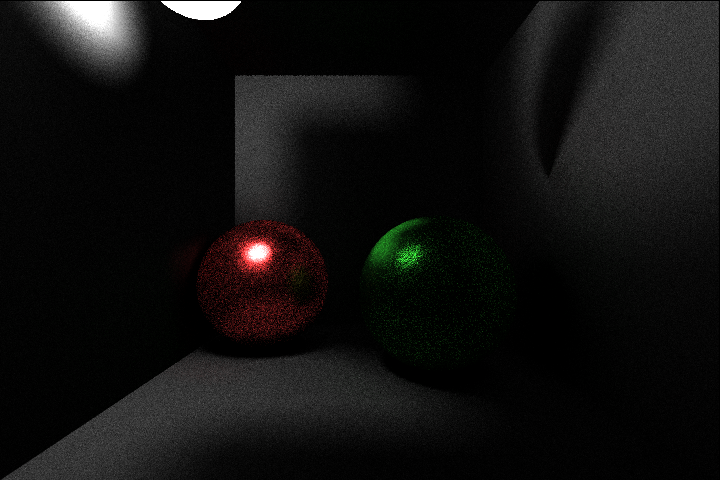
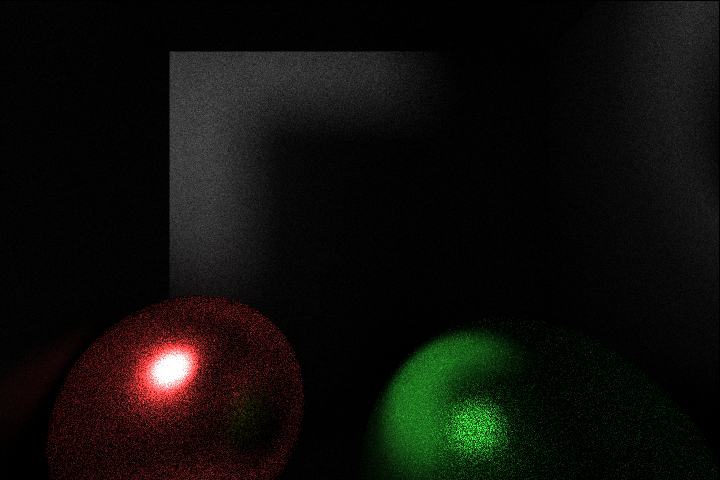
Debugged Camera, Norm3 and made new debug scene.

diff --git a/Raytracer/src/Scene.cpp b/Raytracer/src/Scene.cpp
@@ -17,13 +17,14 @@ std::optional<IntersectionTrace> Scene::find_nearest(const Ray& r) const noexcep
 
 Scene Scene::basic_scene()
 {
+	constexpr double greyval = 0.6;
 	return Scene({
-	Sphere(Vec3(1e5,		0.5,	0.5),		1e5, Material::grey_diffuse()),		// left wall
-	Sphere(Vec3(-1e5+1.0,	0.5,	0.5),		1e5, Material::grey_diffuse()),		// right wall
-	Sphere(Vec3(0.5,		-1e5+1,	0.5),		1e5, Material::grey_diffuse()),		// ceiling
-	Sphere(Vec3(0.5,		1e5,	0.5),		1e5, Material::grey_diffuse()),		// floor
-	Sphere(Vec3(0.5,		0.5,	-1e5+1),	1e5, Material::grey_diffuse()),		// backwall
-	Sphere(Vec3(0.5,		0.5,	1e5),		1e5, Material::grey_diffuse()),		// frontwall
+	Sphere(Vec3(1e5,		0.5,	0.5),		1e5, Material::grey_diffuse(greyval)),		// left wall
+	Sphere(Vec3(-1e5+1.0,	0.5,	0.5),		1e5, Material::grey_diffuse(greyval)),		// right wall
+	Sphere(Vec3(0.5,		-1e5+1,	0.5),		1e5, Material::grey_diffuse(greyval)),		// ceiling
+	Sphere(Vec3(0.5,		1e5,	0.5),		1e5, Material::grey_diffuse(greyval)),		// floor
+	Sphere(Vec3(0.5,		0.5,	-1e5+1),	1e5, Material::grey_diffuse(greyval)),		// backwall
+	Sphere(Vec3(0.5,		0.5,	1e5),		1e5, Material::grey_diffuse(greyval)),		// frontwall
 	Sphere(Vec3(0.2,		0.85,	0.2),		0.1, Material::white_light(20.0)),	// lightsource
 	Sphere(Vec3(0.7,		0.2,	0.5),		0.2, Material::green_diffuse()),	// green sphere
 	Sphere(Vec3(0.2,		0.2,	0.7),		0.2, Material::red_shiny())			// shine red sphere
@@ -32,11 +33,23 @@ Scene Scene::basic_scene()
 
 Scene Scene::hull_sphere()
 {
+	constexpr double greyval = 0.6;
 	return Scene({
-	Sphere(Vec3(0.5,		0.5,	0.5),		2.0, Material::grey_diffuse()),		// wall
+	Sphere(Vec3(0.5,		0.5,	0.5),		2.0, Material::grey_diffuse(greyval)),		// wall
 	Sphere(Vec3(0.1,		0.85,	-0.2),		0.1, Material::white_light(100.0)),	// lightsource
 	Sphere(Vec3(0.7,		0.2,	0.5),		0.2, Material::green_diffuse()),	// green sphere
 	Sphere(Vec3(0.2,		0.2,	0.7),		0.2, Material::red_shiny()),		// shine red sphere
 	Sphere(Vec3(0.5,		0.5,	0.8),		0.2, Material::mirror())			// mirror sphere
+		});
+}
+
+Scene Scene::debug_scene()
+{
+	return Scene({
+		Sphere(Vec3(0.5,0.5,0.5),	0.1,	Material::white_light(20.0)),		// lightsource in the middle of scene
+		Sphere(Vec3(0.2,0.5,0.5),	0.1,	Material::grey_diffuse(0.5)),			// gray sphere left
+		Sphere(Vec3(0.8,0.5,0.5),	0.1,	Material::grey_diffuse(0.6)),			// gray sphere right
+		Sphere(Vec3(0.5,0.2,0.5),	0.1,	Material::grey_diffuse(0.7)),			// gray sphere bottom
+		Sphere(Vec3(0.5,0.8,0.5),	0.1,	Material::grey_diffuse(0.8))			// gray sphere top
 		});
 }

diff --git a/Raytracer/src/Renderer.cpp b/Raytracer/src/Renderer.cpp
@@ -65,19 +65,20 @@ Color Renderer::radiance(const Ray& r, std::mt19937& rnd, unsigned int depth) {
 }
 
 auto Renderer::generatePixelJob(std::size_t x, std::size_t y) {
-	const auto x_rezi = 1. / maxx_;
-	const auto y_rezi = 1. / maxy_;
+	/*const auto x_rezi = 1. / renderParams_.sizeX;
+	const auto y_rezi = 1. / renderParams_.sizeY;*/
 	std::random_device r_device;
-	const unsigned int seed = r_device();
-	auto rnd = std::mt19937(seed + y * maxx_ + x);
-	const Norm3 dir = cam_.getRayDirection(x, y, rnd);
-	const auto uni = std::uniform_real_distribution(0.0, 1.0);
-	return [this, x_rezi, y_rezi, uni, rnd, dir, x, y]
-	() mutable {
+	const unsigned int seed = r_device() + y * renderParams_.sizeX + x;
+	
+	/*const Norm3 dir = cam_.getRayDirection(x, y, rnd);
+	const auto uni = std::uniform_real_distribution(0.0, 1.0);*/
+	return [&,seed,x,y](){
+		auto rnd = std::mt19937(seed + y * renderParams_.sizeX + x);
 		Color c{};
 		Ray r{};
 		for (unsigned int s = 0; s < renderParams_.samplesPerPixel; ++s) {
-			r = Ray({ (x + uni(rnd)) * normalizer_,(y + uni(rnd)) * normalizer_,0.05 }, dir);
+			//r = Ray({ 0.5,0.5,0.05 }, cam_.getRayDirection(x, y, rnd));
+			r = cam_.getRay(x, y, rnd);
 			c += radiance(r, rnd, 0) / renderParams_.samplesPerPixel;
 		}
 		c = clamp(c, 0.0, 1.0);
@@ -91,9 +92,9 @@ std::size_t Renderer::percentRendered() {
 std::vector<Color> Renderer::render() {
 
 	const auto renderSingleThread = [&]() {
-		for (std::size_t y = 0; y < maxy_; ++y) {
-			for (std::size_t x = 0; x < maxx_; ++x) {
-				pixels_[y * maxx_ + x] = generatePixelJob(x, y)();
+		for (std::size_t y = 0; y < renderParams_.sizeY; ++y) {
+			for (std::size_t x = 0; x < renderParams_.sizeX; ++x) {
+				pixels_[y * renderParams_.sizeX + x] = generatePixelJob(x, y)();
 			}
 		}
 	};
@@ -101,9 +102,9 @@ std::vector<Color> Renderer::render() {
 	const auto renderMultiThread = [&]() {
 		std::vector<std::future<Color>> results(pixels_.size());
 
-		for (std::size_t y = 0; y < maxy_; ++y) {
-			for (std::size_t x = 0; x < maxx_; ++x) {
-				results[y * maxx_ + x] = std::async(std::launch::async, generatePixelJob(x, y));
+		for (std::size_t y = 0; y < renderParams_.sizeY; ++y) {
+			for (std::size_t x = 0; x < renderParams_.sizeX; ++x) {
+				results[y * renderParams_.sizeX + x] = std::async(std::launch::async, generatePixelJob(x, y));
 			}
 		}
 		auto pct = percentRendered();

diff --git a/Raytracer/src/Camera.h b/Raytracer/src/Camera.h
@@ -4,6 +4,7 @@
 #include "Ray.h"
 #include "Constants.h"
 #include <cmath>
+#include <array>
 #include <random>
 
 // Basic Camera for the moment at the middle of the screen at X/2, Y/2
@@ -14,9 +15,11 @@ class Camera {
 	unsigned int height_;
 	double FOV_; // in radians
 	double CameraPlaneDist_;
+	Vec3 position_;
+	std::array<Norm3,3> basis_;
 
 	template<typename Rnd_dev>
-	[[nodiscard]] std::pair<double, double> normalizeCanvas(unsigned int pixX, unsigned int pixY, Rnd_dev rnd) {
+	[[nodiscard]] std::pair<double, double> normalizeCanvas(unsigned int pixX, unsigned int pixY, Rnd_dev& rnd) const {
 		const std::uniform_real_distribution uni;
 		const double x = (pixX + uni(rnd)) / width_;
 		const double y = (pixY + uni(rnd)) / height_;
@@ -24,13 +27,13 @@ class Camera {
 	}
 
 public:
-	Camera(unsigned int width, unsigned int height, double FOV) noexcept // FOV input in degrees
-		: aspectRatio_(static_cast<double>(width)/height), width_(width), height_(height), FOV_(FOV * constants::pi / 180.0) {
-		CameraPlaneDist_ = aspectRatio_ / tan(FOV_ / 2);
-	}
+	Camera(unsigned int width, unsigned int height, Vec3 position, Vec3 motive, double FOV) noexcept // FOV input in degrees
+		: aspectRatio_(static_cast<double>(width) / height), width_(width), height_(height), 
+		CameraPlaneDist_(aspectRatio_ / tan(FOV_ / 2)), position_(position), basis_(Norm3::orthogonalFromZY((motive - position).norm(),Norm3::yAxis())),
+		FOV_(FOV* constants::pi / 180.0) {}
 
 	template<typename RndDev>
-	[[nodiscard]] Norm3 getRayDirection(unsigned int X, unsigned int Y, RndDev rnd) {
+	[[nodiscard]] Norm3 getRayDirection(unsigned int X, unsigned int Y, RndDev& rnd) const {
 		const auto xy = normalizeCanvas<RndDev>(X, Y, rnd);
 		const auto x = xy.first;
 		const auto y = xy.second;
@@ -39,5 +42,15 @@ public:
 		const auto rz = CameraPlaneDist_;
 		return Vec3(rx, ry, rz).norm();
 	}
-	
+	template<typename RndDev>
+	[[nodiscard]] Ray getRay(unsigned int X, unsigned int Y, RndDev& rnd) const {
+		const auto xy = normalizeCanvas(X, Y, rnd);
+		const double x = xy.first;
+		const double y = xy.second;
+		const auto rx = x * aspectRatio_ * basis_[0];
+		const auto ry = y * basis_[1];
+		const auto rz = basis_[2] * CameraPlaneDist_;
+		const auto direction = Vec3(rx + ry + rz).norm();
+		return { position_,direction };
+	}
 };

diff --git a/Raytracer/primitives/Triangle.h b/Raytracer/primitives/Triangle.h
@@ -12,26 +12,29 @@
 class Triangle : public Primitive
 {
 	std::array<Vec3, 3> vertices_{};
-	Norm3 normal_{Norm3::xAxis()};
+	Norm3 normal_{ Norm3::xAxis() };
 
 public:
-	Triangle(std::array<Vec3,3> vertices, Material mat) noexcept
+	Triangle(std::array<Vec3, 3> vertices, Material mat) noexcept
 		: Primitive{ mat }, vertices_(vertices){
 		auto leg1{ vertices_[0] - vertices_[1] };
 		auto leg2{ vertices_[0] - vertices_[2] };
 		if (leg1.lensq() < constants::EPS)
 			leg1 = vertices_[1] - vertices_[2];
-		else if( leg2.lensq() < constants::EPS)
+		else if (leg2.lensq() < constants::EPS)
 			leg2 = vertices_[1] - vertices_[2];
 		normal_ = leg1.cross(leg2).norm();
 	}
 	constexpr Triangle(std::array<Vec3, 3> vertices, Material mat, Norm3 normal) noexcept
 		: Primitive{ mat }, vertices_(vertices), normal_(normal){}
 
-	Norm3 normal(Vec3 hitPos) const noexcept override { return normal_; }
-	template<int i1, int i2>
+	Norm3 normal([[maybe_unused]] Vec3 hitPos) const noexcept override {
+		return normal_;
+	}
+	template<std::size_t i1, std::size_t i2>
 	constexpr Vec3 leg() const{ return vertices_[i2] - vertices_[i1]; }
-	constexpr Vec3 vert(std::size_t i) const { return vertices_[i]; }
+	template<std::size_t i>
+	constexpr Vec3 vert() const { return vertices_[i]; }
 
 
 	std::optional<IntersectionTrace> intersect(const Ray&) const override;

diff --git a/Raytracer/src/Renderer.h b/Raytracer/src/Renderer.h
@@ -12,14 +12,14 @@ struct RenderParams {
 	unsigned int max_depth{ 2 };
 	unsigned int samplesPerPixel{ 10 };
 	double FOV{ 90 };
+	std::size_t sizeX{ 720 };
+	std::size_t sizeY{ 480 };
 };
 
 class Renderer
 {
 	const Scene scene_;
 	const RenderParams renderParams_;
-	const std::size_t maxx_;
-	const std::size_t maxy_;
 	const double normalizer_;
 	std::vector<Color> pixels_;
 	Camera cam_;
@@ -31,8 +31,9 @@ class Renderer
 	auto generatePixelJob(std::size_t x, std::size_t y);
 
 public:
-	Renderer(Scene&& scene, const RenderParams& renderParams, std::size_t maxx, std::size_t maxy, bool multithread)
-		: scene_(std::move(scene)), renderParams_(renderParams), maxx_(maxx), maxy_(maxy), normalizer_(1./maxx), pixels_(std::vector<Color>(maxx* maxy)), cam_(Camera(maxx, maxy, renderParams.FOV)), counter_(Counter()), multithread_(multithread) {}
+	Renderer(Scene&& scene, const RenderParams& renderParams, bool multithread)
+		: scene_(std::move(scene)), renderParams_(renderParams), normalizer_(1. / renderParams.sizeX), pixels_(std::vector<Color>(renderParams.sizeX* renderParams.sizeY)),
+		cam_(Camera(renderParams.sizeX, renderParams.sizeY, { 0.5,0.5,0.05 }, { 0.5,0.5,0.5 }, renderParams.FOV)), counter_(Counter()), multithread_(multithread) {}
 
 	std::vector<Color> render();
 	std::size_t percentRendered();

diff --git a/Raytracer/util/Norm3.impl.h b/Raytracer/util/Norm3.impl.h
@@ -29,11 +29,22 @@ inline Norm3 Norm3::rotate(const Norm3& rotationAxis, double alpha) noexcept {
     return (rotationAxis * rotationAxis.dot(x) + cos(alpha) * rotationAxis.cross(x).cross(rotationAxis) + sin(alpha) * rotationAxis.cross(x)).norm();
 }
 
-inline std::pair<Norm3, Norm3> Norm3::orthogonal_from_z(Norm3 z) noexcept {
+inline std::pair<Norm3, Norm3> Norm3::orthogonal_from_z(const Norm3& z) noexcept {
     auto x = (Norm3::xAxis().dot(z) < 1 - constants::EPS ? Norm3::xAxis() : Norm3::yAxis()).cross(z).norm();
     auto y = z.cross(x).norm();
     return { x,y };
 }
+inline std::array<Norm3, 3> Norm3::orthogonalFromYZ(const Norm3& y, const Norm3& z) noexcept {
+    const auto x = y.cross(z).norm();
+    const auto zz = Norm3::knownNormal(x.cross(y));
+    return { x,y,zz };
+}
 
-constexpr Vec3 operator*(double lhs, Norm3& rhs) noexcept { return Vec3(rhs).scale(lhs); }
+inline std::array<Norm3, 3> Norm3::orthogonalFromZY(const Norm3& z, const Norm3& y) noexcept {
+    const auto x = y.cross(z).norm();
+    const auto yy = Norm3::knownNormal(z.cross(x));
+    return { x,yy,z };
+}
+
+constexpr Vec3 operator*(double lhs, const Norm3& rhs) noexcept { return Vec3(rhs).scale(lhs); }
 constexpr Vec3 Norm3::operator*(double rhs) const noexcept { return Vec3(*this).scale(rhs); }

diff --git a/Raytracer/src/main.cpp b/Raytracer/src/main.cpp
@@ -9,7 +9,7 @@
 int main(int argc, char* argv[]) {
 	constexpr std::size_t maxx = 720;
 	constexpr std::size_t maxy = 480;
-	auto png = pngwriter(maxx, maxy, 0.0, "basic_scene.png");
+	auto png = pngwriter(maxx, maxy, 0.0, "renderimage.png");
 
 	const RenderParams renderParams{
 		.numUSamples{4}
@@ -18,16 +18,18 @@ int main(int argc, char* argv[]) {
 		,.max_depth{3}
 		,.samplesPerPixel{100}
 		,.FOV{90}
+		,.sizeX{maxx}
+		,.sizeY{maxy}
 	};
 
 	// begin rendering
 
-	Renderer renderer(Scene::basic_scene(), renderParams, maxx, maxy, true);
+	Renderer renderer(Scene::basic_scene(), renderParams, true);
 	std::vector<Color> pixels = renderer.render();
 
 	for (std::size_t y = 0; y < maxy; ++y) {
 		for (std::size_t x = 0; x < maxx; ++x) {
-			png.plot(static_cast<int>(x), static_cast<int>(y), pixels[y * maxx + x].r, pixels[y * maxx + x].g, pixels[y * maxx + x].b);
+			png.plot(static_cast<int>(x), static_cast<int>(y), pixels.at(y * maxx + x).r, pixels.at(y * maxx + x).g, pixels.at(y * maxx + x).b);
 		}
 	}
 

diff --git a/Raytracer/util/Norm3.h b/Raytracer/util/Norm3.h
@@ -2,6 +2,7 @@
 #include <tuple>
 #include "Constants.h"
 #include <cmath>
+#include <array>
 #include <cassert>
 
 class Vec3;
@@ -42,7 +43,9 @@ public:
 
 	[[nodiscard]] Norm3 rotate(const Norm3& rotationAxis, double alpha) noexcept;
 
-	[[nodiscard]] static std::pair<Norm3, Norm3> orthogonal_from_z(Norm3 z) noexcept;
+	[[nodiscard]] static std::pair<Norm3, Norm3> orthogonal_from_z(const Norm3& z) noexcept;
+	[[nodiscard]] static std::array<Norm3, 3> orthogonalFromYZ(const Norm3& y, const Norm3& z) noexcept;
+	[[nodiscard]] static std::array<Norm3, 3> orthogonalFromZY(const Norm3& z, const Norm3& y) noexcept;
 
 	[[nodiscard]] static inline Norm3 knownNormal(double x, double y, double z) noexcept {
 		// only use if you are sure the result of the construction is normal

diff --git a/Raytracer/src/Material.h b/Raytracer/src/Material.h
@@ -22,8 +22,7 @@ public:
 	static Material green_diffuse() noexcept { return Material({ 0.2,0.8,0.2 }, { 0.2,0.8,0.2 }, {}, 0.9f); }
 	static Material red_shiny() noexcept { return Material({ 0.8,0.2,0.2 }, { 0.8,0.2,0.2 }, {}, 0.1f); }
 	static Material mirror() noexcept { return Material({ 0.999,0.999,0.999 }, { 0.999,0.999,0.999 }, {}, 0.0f); }
-	static Material grey_diffuse() noexcept { 
-		constexpr double greyVal{ 0.6 }; 
+	static Material grey_diffuse(double greyVal) noexcept { 
 		return Material({ greyVal, greyVal, greyVal }, { greyVal,greyVal,greyVal }, {}, 1.0f); 
 	}
 };

diff --git a/Raytracer/src/Scene.h b/Raytracer/src/Scene.h
@@ -29,4 +29,5 @@ public:
 
 	static Scene basic_scene();
 	static Scene hull_sphere();
+	static Scene debug_scene();
 };
